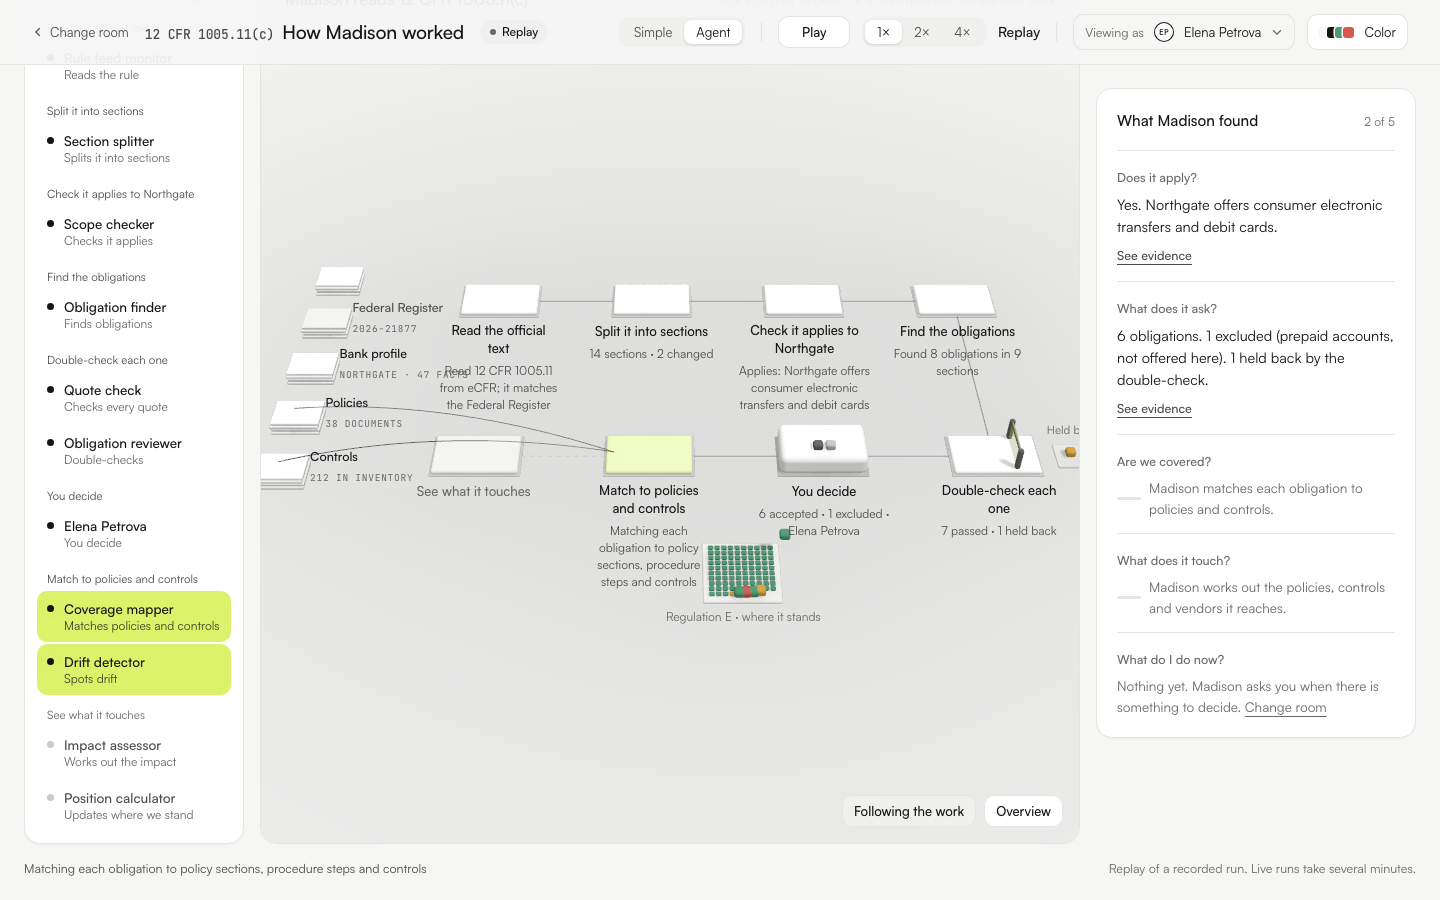
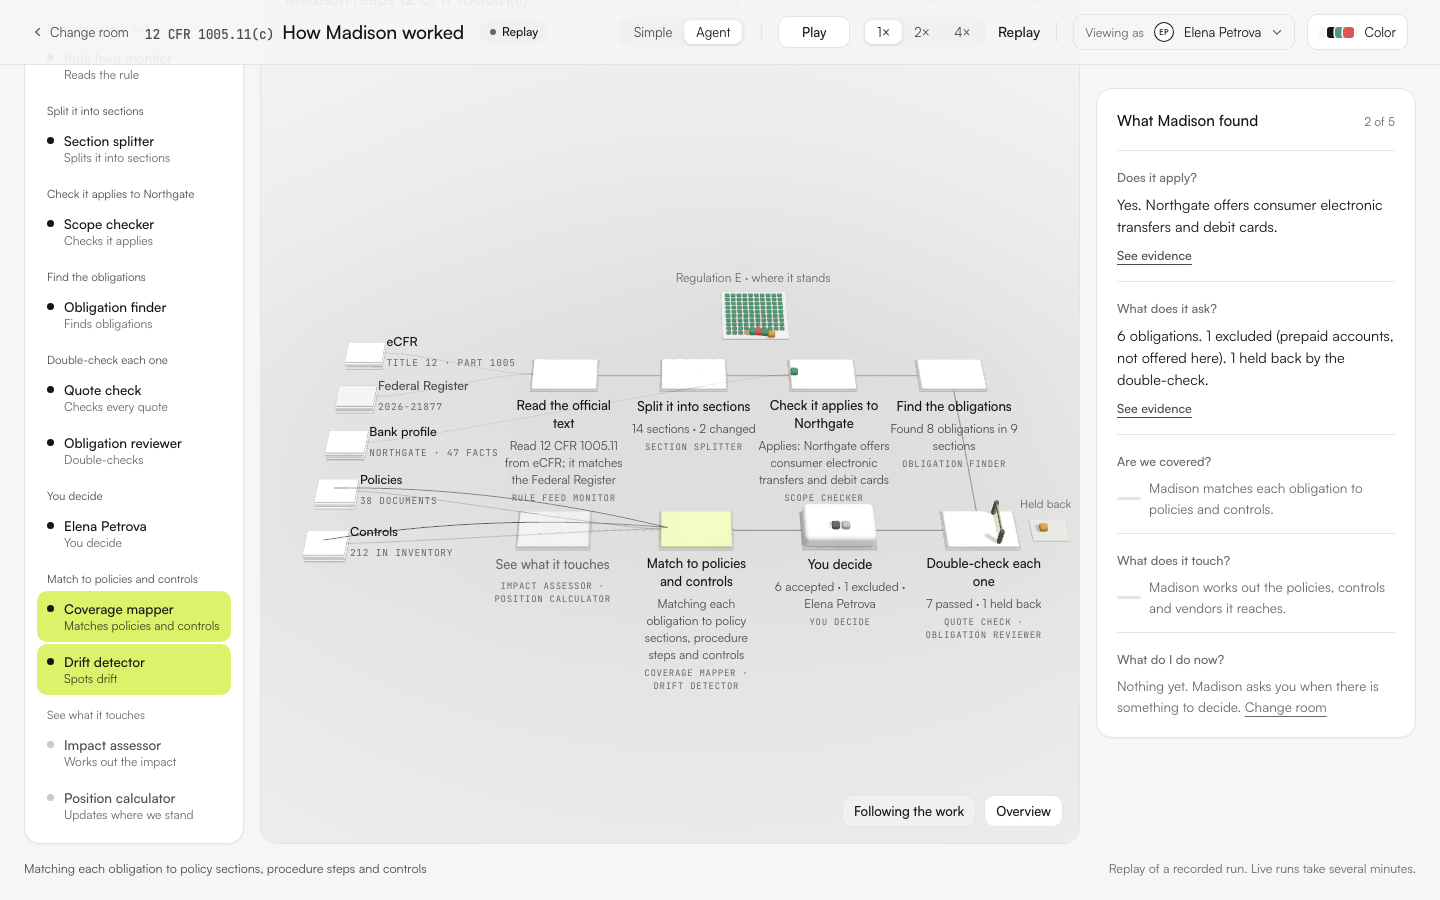
iteration 2 · F38: side-by-side comparisons with the references, critique, source feeds and agent metadata in the live system, plot behind the first row

Changed region(s): [[0.1562, 0.3111, 0.75, 0.7778], [0.1875, 0.5911, 0.3125, 0.6222]]

diff --git a/src/components/run/system-3d.tsx b/src/components/run/system-3d.tsx
@@ -12,7 +12,7 @@ import Link from "next/link";
 import { cn } from "@/lib/utils";
 import type { Run } from "@/data/types";
 import type { ItemInstance, RunState } from "@/lib/player/derive";
-import { getDuty, position, userById } from "@/data";
+import { agentById, getDuty, position, userById } from "@/data";
 import { useStore } from "@/lib/store";
 import { stepResult, stepTitle } from "@/lib/run-steps";
 import { Typed } from "@/components/core/typed";
@@ -52,7 +52,7 @@ function layoutFor(run: Run): Layout {
     stage[s.key] = { x: x0 + col * GAP_X, z: rows === 1 ? -0.8 : row === 0 ? -ROW_Z : ROW_Z, top: raised ? RAISED : H, raised, gate: s.kind === "gate", row, col };
   });
   const srcs = run.sources ?? [];
-  const sx = x0 - 4.6;
+  const sx = x0 - 6.6;
   const source: Layout["source"] = {};
   srcs.forEach((s, i) => {
     const z = srcs.length === 1 ? 0 : -3.8 + (7.6 * i) / (srcs.length - 1);
@@ -66,18 +66,18 @@ function layoutFor(run: Run): Layout {
     tray = p.col === perRow - 1 ? { x: p.x + W / 2 + 1.0, z: p.z } : { x: p.x, z: p.z + D / 2 + 1.0 };
   }
   const xr = x0 + (perRow - 1) * GAP_X;
-  const plot = run.id === "run-rule-1005" ? { x: x0 + ((perRow - 1) * GAP_X) / 2, z: ROW_Z + D / 2 + 3.1 } : undefined;
+  const plot = run.id === "run-rule-1005" ? { x: x0 + ((perRow - 1) * GAP_X) / 2, z: -ROW_Z - D / 2 - 2.1 } : undefined;
   const out: Layout["out"] = { out: { x: x0 - 1.6, z: rows === 1 ? 1.6 : ROW_Z + 1.4 }, tprm: { x: xr + 2.6, z: -1.2 }, assurance: { x: xr + 2.6, z: 1.2 } };
   const minX = sx - 2.2;
   const maxX = Math.max(xr + W / 2 + 1.6, tray ? tray.x + 0.8 : -Infinity);
-  const minZ = -4.2;
-  const maxZ = plot ? plot.z + 1.3 : (rows === 1 ? 2.8 : ROW_Z + D / 2 + 0.9) + 0.3;
+  const minZ = plot ? plot.z - 1.4 : -4.2;
+  const maxZ = (rows === 1 ? 2.8 : ROW_Z + D / 2 + 0.9) + 0.3;
   return { stage, source, tray, plot, out, bounds: { center: [(minX + maxX) / 2, 0.3, (minZ + maxZ) / 2], size: [maxX - minX, 0.8, maxZ - minZ] } };
 }
 
 /** The Regulation E plot that the run's obligations settle into: 10 by 10. */
 const PLOT_COLS = 10;
-const PLOT_CELL = 0.15;
+const PLOT_CELL = 0.2;
 function plotSlot(k: number, origin: { x: number; z: number }) {
   const c = k % PLOT_COLS;
   const r = Math.floor(k / PLOT_COLS);
@@ -292,22 +292,28 @@ function SystemScene({
   const runningKey = run.stages.find((s) => ["running", "waiting_person"].includes(st.stages[s.key].state))?.key;
   const fk = selected ?? runningKey;
   const focus: Frame | null =
-    guided && st.done && !selected && lay.plot
-      ? { center: [lay.plot.x, 0.2, lay.plot.z - 2.2], size: [12, 1, 9] }
-      : !guided || st.done || !fk
+    !guided || st.done || !fk
       ? null
       : (() => {
           const s = lay.stage[fk];
           // pan toward the work, keeping most of the system in view
           const b = lay.bounds;
-          return { center: [b.center[0] + (s.x - b.center[0]) * 0.3, s.top, b.center[2] + (s.z - b.center[2]) * 0.3], size: [b.size[0] * 0.9, 1, b.size[2] * 0.9] };
+          return { center: [b.center[0] + (s.x - b.center[0]) * 0.12, s.top, b.center[2] + (s.z - b.center[2]) * 0.12], size: [b.size[0] * 0.98, 1, b.size[2] * 0.98] };
         })();
 
   const path = run.stages.map((s) => lay.stage[s.key]);
+  const feeds = useMemo(() => {
+    const out: { source: string; stage: string }[] = [];
+    const add = (source: string, stage: string) => !out.some((f) => f.source === source && f.stage === stage) && out.push({ source, stage });
+    for (const e of run.events) if (e.type === "item" && lay.source[e.from] && lay.stage[e.to]) add(e.from, e.to);
+    const scope = run.stages.find((x) => x.key === "scope" || x.key === "suggest");
+    if (scope) for (const id of Object.keys(lay.source)) if (/profile|fr$/.test(id) && !out.some((f) => f.source === id)) add(id, id.endsWith("fr") ? run.stages[0].key : scope.key);
+    return out;
+  }, [run, lay]);
 
   return (
     <>
-      <CameraRig overview={lay.bounds} focus={focus} resetKey={reset} drift={!playing} padding={-0.12} azimuth={0} polar={47} />
+      <CameraRig overview={lay.bounds} focus={focus} resetKey={reset} drift={!playing} padding={-0.08} azimuth={0} polar={40} />
 
       {/* sources: stacks of sheets */}
       {(run.sources ?? []).map((s) => {
@@ -326,6 +332,18 @@ function SystemScene({
             </Label>
           </group>
         );
+      })}
+
+      {/* which source feeds which step: faint until the step has used it */}
+      {feeds.map((f) => {
+        const src = lay.source[f.source];
+        const s = lay.stage[f.stage];
+        if (!src || !s) return null;
+        const used = st.stages[f.stage]?.state !== "waiting";
+        const a = new THREE.Vector3(src.x + 0.62, 0.36, src.z);
+        const b = new THREE.Vector3(s.x - W / 2, 0.1, s.z);
+        const pts = new THREE.CubicBezierCurve3(a, a.clone().add(new THREE.Vector3(1.4, 0, 0)), b.clone().add(new THREE.Vector3(-1.4, 0, 0)), b).getPoints(28);
+        return <Line key={`${f.source}-${f.stage}`} points={pts} color={tk["--ink"]} lineWidth={1} transparent opacity={used ? 0.32 : 0.1} dashed={!used} dashSize={0.1} gapSize={0.08} />;
       })}
 
       {/* the path between steps */}
@@ -389,6 +407,7 @@ function SystemScene({
                 ) : result ? (
                   <span className="mt-0.5 block text-[12px] leading-[17px] text-ink2">{result}</span>
                 ) : null}
+                <span className="mt-1 block font-mono text-[9px] leading-[13px] tracking-[0.08em] text-ink3 uppercase">{s.agents.map((a) => (a.startsWith("person:") ? "You decide" : agentById(a)?.name ?? "")).join(" · ")}</span>
                 {p.gate && gateChecked && !result ? (
                   <span className="mt-0.5 block text-[12px] leading-[17px] text-ink2">
                     {gateChecked - held.length} passed{held.length ? ` · ${held.length} held back` : ""}
@@ -463,8 +482,8 @@ function PlotBase({ tk, origin, base, done, label }: { tk: Tokens; origin: { x: 
   return (
     <group>
       <Platform position={[origin.x, 0, origin.z]} size={[PLOT_COLS * PLOT_CELL + 0.24, 0.08, 10 * PLOT_CELL + 0.24]} radius={0.06} color={tk["--surface2"]} />
-      <Blocks count={items.length} items={items} size={[0.12, 0.09, 0.12]} radius={0.03} />
-      <Label position={[origin.x, 0.1, origin.z + 5 * PLOT_CELL + 0.2]} anchor="top" z={[8, 0]}>
+      <Blocks count={items.length} items={items} size={[0.16, 0.1, 0.16]} radius={0.04} />
+      <Label position={[origin.x, 0.1, origin.z - 5 * PLOT_CELL - 0.2]} anchor="bottom" z={[8, 0]}>
         <span className={cn("text-[12px] whitespace-nowrap", done ? "font-medium text-ink" : "text-ink3")}>{label}</span>
       </Label>
     </group>

diff --git a/docs/iteration-2/f38/CRITIQUE.md b/docs/iteration-2/f38/CRITIQUE.md
@@ -1,0 +1,45 @@
+# F38: one 3D language, critiqued against the references
+
+Comparisons in this folder: `compare-agent-view.png`, `compare-agent-view-decide.png`, `compare-coverage.png` and `compare-lineage-record.png`. The references are Yukon's agents verifier, TextQL's Refinery diagram and our own Coverage field.
+
+## What is now shared
+`src/components/scene/` holds the kit:
+- **Stage:** fov 35 camera, key, fill and rim lights, a Lightformer environment, contact shadows and N8AO.
+- **Shapes:** instanced rounded blocks, platforms, slabs and the gate.
+- **Labels:** crisp HTML labels that are never scaled by distance.
+- **Camera:** one rig with guided easing and Overview.
+
+Five places use the kit: Coverage, the run's live system, the obligation lineage, the record chain and the Today mini field.
+
+## Honest critique
+**Agent view (live system)**
+- **Better than F37.** Sources stand as stacks and are wired to the steps they feed. Sheets and blocks move between platforms with the run's own timing. The gate fills and holds one block back in a tray. The decision platform rises, queues the 7 blocks and lights up. At the end the blocks settle into the Regulation E plot.
+- **Not a card grid.** There are no "01" or "Done" chips. Agent names are tiny monospace metadata under each step.
+- **Still weaker than TextQL** on information density: TextQL labels every edge, and ours labels only the break and the sources. The canvas also leaves empty floor above the plot.
+- **Labels can touch** when a step's result runs to four lines.
+- **Headless renders are slow** (software WebGL), so the screenshots step with the arrow keys. On a laptop GPU the scene is light: one draw call per kind of block and about 20 HTML labels.
+
+**Coverage**
+- Still the strongest scene. It has real depth, height by urgency, the fly-to and the plot panel.
+- Labels show only on the largest plots until hover, which keeps the field calm but hides small regulations until you point at them.
+
+**Lineage**
+- It reads as a stack, from the rule's words down to the evidence.
+- The drift break and the dashed missing layer carry the meaning.
+- On a phone it opens in the Chain view, because the cards do not fit beside the stack.
+
+**Record chain**
+- People are cubes and agents are tiles. The `prev` links and run clusters read clearly.
+- At 24 entries the chain is short and looks sparse. It would look better with a year of entries, so the time slider earns its place as the record grows.
+
+**Today mini field**
+- A small, honest echo of Coverage: hover for counts, click to open Coverage.
+
+## Fallbacks
+- **No WebGL, or reduced motion:**
+  - Coverage falls back to the Map.
+  - The run falls back to the refined 2D schematic: sources column, rounded steps, packets, the gate bar.
+  - The lineage falls back to the Chain.
+  - The record falls back to the List.
+  - Today shows a link instead of the mini field.
+- **Phones:** the run uses the schematic, since the 3D labels would collide that narrow.

diff --git a/docs/ITERATION-2-PROGRESS.md b/docs/ITERATION-2-PROGRESS.md
@@ -42,7 +42,7 @@ If the conversation is compacted: re-read `docs/ITERATION-2-PLAN.md` and this fi
 | F35 | Custom glyph set | [x] | Done (A) · `src/components/glyphs/index.tsx` (7 nav, 11 task types, chevron) · gallery `phase-a/gallery-graphite-light-1440.png` · no icon library in package.json |
 | F36 | No penalty figures | [x] | Done (F) · exposure is words only, labelled Illustrative only; scan-text flags any dollar amount on 24 routes (only the rule threshold of 100,000 is allowed) |
 | F37 | Agent view next to Simple view | [x] | Done (after D) · `run/agent-view.tsx`: three zones, Simple and Agent switch, Agent is the default for replays, `view=simple` for live runs from the change room · `f37/agent-rule-*` (running, waiting, decide, done, focus) in three themes, `f37/agent-coverage-replay-*`, `f37/agent-mfa-replay-*`, `f37/agent-rule-done-graphite-light-390.png`. Critique and next steps: `f37/CRITIQUE.md`. F38 builds on this. |
-| F38 | One 3D language (scene kit) across the product | [ ] | |
+| F38 | One 3D language (scene kit) across the product | [x] | Done · components/scene (stage, light rig, ground, AO, rounded blocks, platforms, gate, labels, guided camera) used by Coverage, the run's 3D live system (run/system-3d.tsx, default for replays and How Madison got here), the obligation lineage, the record chain and the Today mini field; team column lists agents with roles; toasts top centre; 2D fallbacks for no WebGL or reduced motion · f38/compare-*.png, f38/CRITIQUE.md, f38/rule-*-3d-*, f38/rule-*-2d-* |
 
 ## Phases
 
